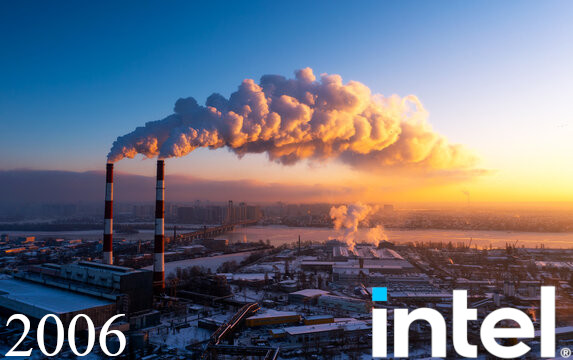
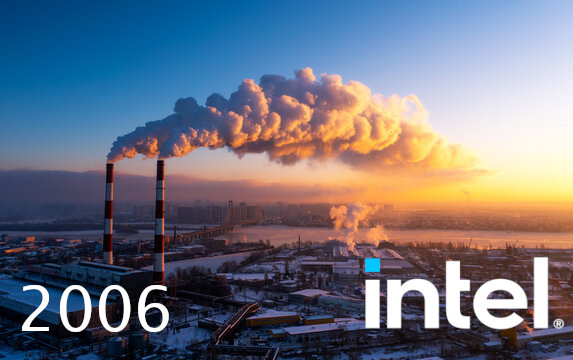
Adjusted images, made the horizontal scrolling timeline,, added scaling effects to each card

Changed region(s): [[0.623, 0.7028, 1.0, 1.0], [0.0, 0.7944, 0.2967, 1.0]]

diff --git a/style.css b/style.css
@@ -40,7 +40,7 @@ header {
 }
 
 header img {
-  width: 120px;
+  width: 130px;
   height: auto;
   margin-bottom: 16px;
 }
@@ -59,22 +59,29 @@ header p {
 /* Timeline layout: horizontal scroll with flexbox */
 .timeline-cards {
   display: flex;
-  gap: 16px;
-  padding: 28px 20px 10px;
+  gap: 80px;
+  padding: 80px 20px 80px;
+  margin: 0 20px 0;
   overflow-x: auto;
   scroll-snap-type: x mandatory;
 }
 
 /* Individual timeline card */
-.timeline-cards > div {
+.timeline-cards .card {
   position: relative;
-  flex: 0 0 260px;
+  flex: 1 0 auto;
   background-color: #ffffff;
   border-radius: 12px;
   box-shadow: 0 6px 16px rgba(11, 31, 58, 0.15);
   overflow: hidden;
   scroll-snap-align: start;
 }
+
+/* Make the Small cards larger than the others */
+.timeline-cards #Small {
+  flex: 0 0 320px;
+}
+
 
 .timeline-cards h2 {
   padding: 14px 14px 4px;
@@ -87,6 +94,7 @@ header p {
 }
 
 .timeline-cards img {
+  max-width: 100%;
   width: 100%;
   height: 170px;
   object-fit: cover;
@@ -106,14 +114,24 @@ header p {
   transition: opacity 0.2s ease;
 }
 
-/* Show overlay when the card is hovered */
-.timeline-cards > div:hover .overlay {
-  opacity: 1;
+/* Slight scale up on hover/focus for all cards */
+.timeline-cards .card:hover,
+.timeline-cards .card:focus-within {
+  transform: scale(1.10);
+  transition: transform 0.2s ease;
 }
 
-/* Show overlay when the card or its children are focused */
-.timeline-cards > div:focus-within .overlay {
+/* Show overlay when the card is hovered */
+.timeline-cards .card:hover .overlay,
+.timeline-cards .card:focus-within .overlay {
   opacity: 1;
+  transition: opacity 0.2s ease;
+}
+
+/* Make the SMALL ID card scale a bit more than the others */
+.timeline-cards #Small:hover,
+.timeline-cards #Small:focus-within {
+  transform: scale(1.15);
 }
 
 /* Bottom helper paragraph */
@@ -129,7 +147,6 @@ body > p {
   margin: 0 auto;
   padding: 20px;
 }
-
 
 
 /* Responsive: stack and simplify on small screens */
@@ -151,12 +168,17 @@ body > p {
   }
 
   .timeline-cards {
+
     padding: 20px 12px 8px;
     gap: 12px;
   }
 
-  .timeline-cards > div {
+  .timeline-cards .card {
     flex: 0 0 220px; /* Narrower cards on phones */
+  }
+
+  .timeline-cards #RISE {
+    flex: 0 0 260px; /* Still larger on phones */
   }
 
   .timeline-cards img {

diff --git a/index.html b/index.html
@@ -31,7 +31,7 @@
   <section class = "timeline-cards">
 
     <!-- Card 1: 1968 -->
-    <div>
+    <div class = "card">
       <h2>1968</h2>
       <h3>Intel Founded</h3>
       <img src = "img/1.jpg" alt="Intel Founded in 1968" />
@@ -45,7 +45,7 @@
     </div>
 
     <!-- Card 2: 1971 -->
-    <div>
+    <div class = "card">
       <h2>1971</h2>
       <h3>First Microprocessor</h3>
       <img src = "img/2.jpg" alt="First Intel Microprocessor" />
@@ -59,7 +59,7 @@
     </div>
 
     <!-- Card 3: 1978 -->
-    <div>
+    <div class = "card">
       <h2>1978</h2>
       <h3>8086 Processor</h3>
       <img src = "img/3.jpg" alt = "Intel 8086 Processor" />
@@ -72,7 +72,7 @@
     </div>
 
     <!-- Card 4: 1985 -->
-    <div>
+    <div  class = "card">
       <h2>1985</h2>
       <h3>386 Processor</h3>
       <img src = "img/4.jpg" alt = "Intel 386 Processor" />
@@ -86,7 +86,7 @@
     </div>
 
     <!-- Card 5: 2006 -->
-    <div>
+    <div class = "card" id = "Small">
       <h2>2006</h2>
       <h3>Peak GHG Emissions</h3>
       <img src = "img/Intel Peak GCG.jpg" alt = "Intel Peak GHG Emissions" />
@@ -101,7 +101,8 @@
     </div>
 
     <!-- Card 6: 2020 -->
-    <div>
+    <div class = "card" id = "Small">
+      
       <h2>2020</h2>
       <h3>RISE Strategy</h3>
       <img src = "img/Intel Rise.jpg" alt = "Intel RISE Strategy" />
@@ -112,10 +113,11 @@
           progress on climate action, water stewardship, and waste reduction.
         </p>
       </div>
+      
     </div>
 
     <!-- Card 7: 2022 -->
-    <div>
+    <div class = "card">
       <h2>2022</h2>
       <h3>Net-Zero By 2040</h3>
       <img src = "img/Intel Net Zero.jpg" alt = "Intel Net-Zero Commitment" />
@@ -129,7 +131,7 @@
     </div>
 
     <!-- Card 8: 2023 -->
-    <div>
+    <div class = "card" ID = "Small">
       <h2>2023</h2>
       <h3>Renewable Electricity</h3>
       <img src = "img/Intel Solar Farm Folsom, Ca.jpg" alt = "Intel Renewable Electricity" />
@@ -143,7 +145,7 @@
     </div>
 
     <!-- Card 9: 2024 -->
-    <div>
+    <div class = "card" ID = "Small">
       <h2>2024</h2>
       <h3>Sustainability Summit</h3>
       <img src = "img/Intel Sustainability Summit.jpg" alt = "Intel Sustainability Summit" />
